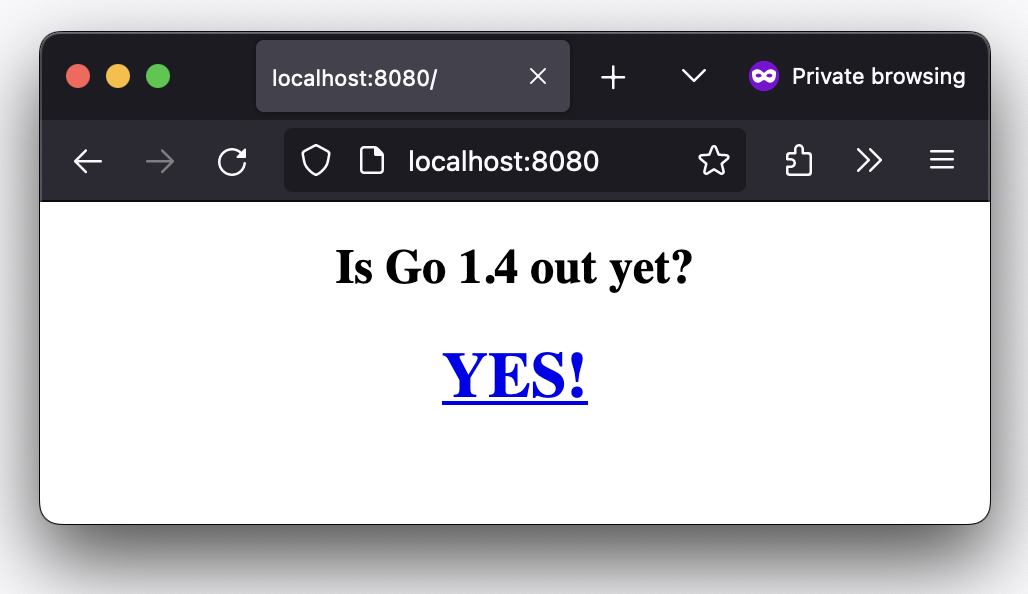
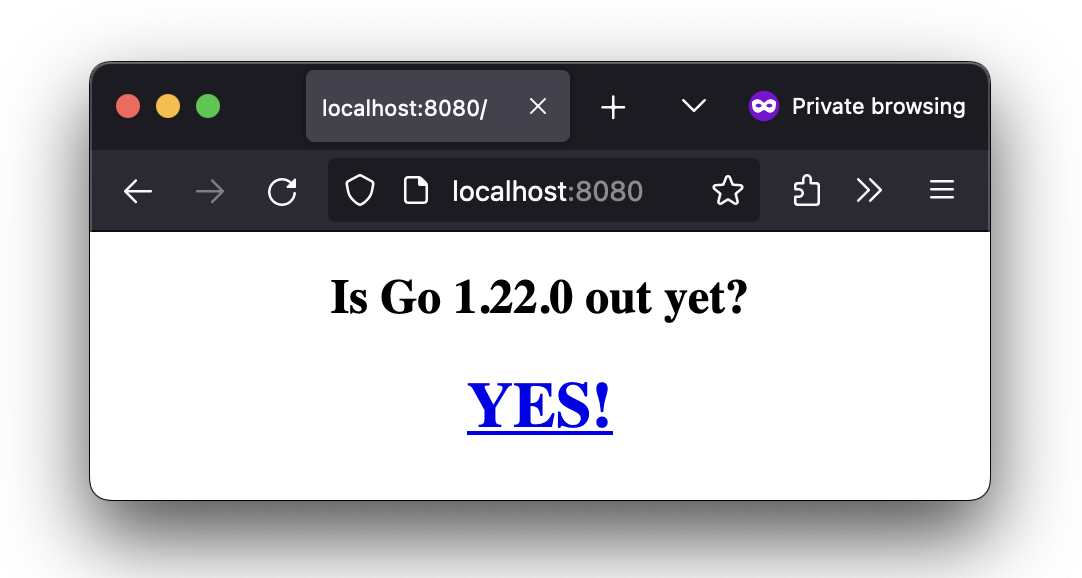
feat: update outyet version

diff --git a/main.go b/main.go
@@ -21,7 +21,7 @@ import (
 var (
 	httpAddr   = flag.String("http", "0.0.0.0:8080", "Listen address")
 	pollPeriod = flag.Duration("poll", 5*time.Second, "Poll period")
-	version    = flag.String("version", "1.4", "Go version")
+	version    = flag.String("version", "1.22.0", "Go version")
 )
 
 const baseChangeURL = "https://go.googlesource.com/go/+/"

diff --git a/README.md b/README.md
@@ -1,8 +1,8 @@
 # go-outyet
 
-> Source: https://github.com/golang/example/blob/master/outyet/main.go
+> Inspired by: https://github.com/golang/example/blob/master/outyet/main.go
 
-A sample Go app which answers to the question: "Is Go 1.4 out yet?"
+A sample Go app which answers to the question: "Is Go 1.22.0 out yet?"
 
 ## How to run it locally
 
